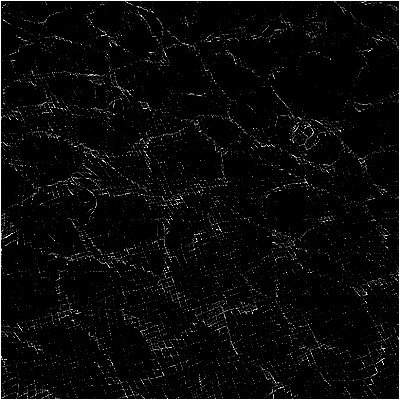
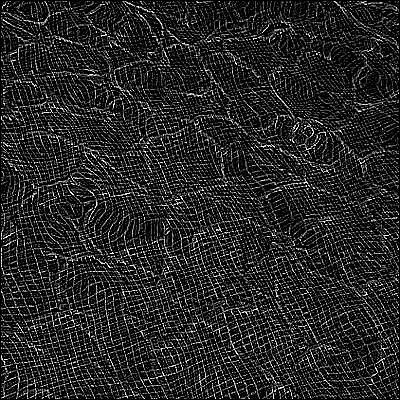
edit week 8 lecture

diff --git a/lectures/week_08.md b/lectures/week_08.md
@@ -174,25 +174,44 @@ The result looks like:
 
 Bright parts of the image how where the edges are. Specifically, this is points where the neighbouring pixels are different from each other.
 
-This filter is an example of a *high pass filter* it's showing you where quick changes are.
+This is an example of a high pass filter in an image. Pixels that have a big difference with the neighbouring pixels are increased, while pixels that are similar to their neighbours are decreased.
 
 ---
 
-## Messing around
+## Sharpen
 
-I personally quite like it when you invert all the sign of the values of the edge detection kernel, so:
+Another interesting kernel is the the sharpen kernel:
 
 ```js
-let inverseEdge = [
-  [1,  1, 1],
-  [1, -8, 1],
-  [1,  1, 1]
+let sharpen = [
+  [0, -1, 0],
+  [-1, 5, -1],
+  [0, -1, 0]
 ]
 ```
 
-That looks like:
+Which looks like this:
 
-![](https://github.com/ual-cci/cp-sip/raw/master/images/ripples-edges-inv.jpg)
+![](https://github.com/ual-cci/cp-sip/raw/master/images/ripples-sharpen.jpg)
+
+---
+
+## Blur
+
+You can also produce a blur via averaging with convolution. The kernel looks like:
+
+```js
+let e = 1 / 9
+kernel = [
+  [e, e, e],
+  [e, e, e],
+  [e, e, e]
+]
+```
+
+![](https://github.com/ual-cci/cp-sip/raw/master/images/ripples-blur.jpg)
+
+Can you see why this produces an average?
 
 ---
 
